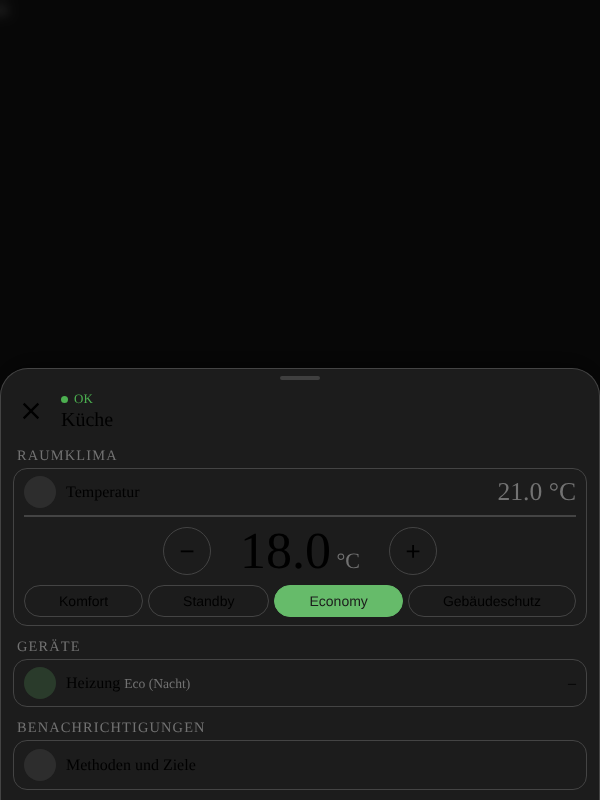
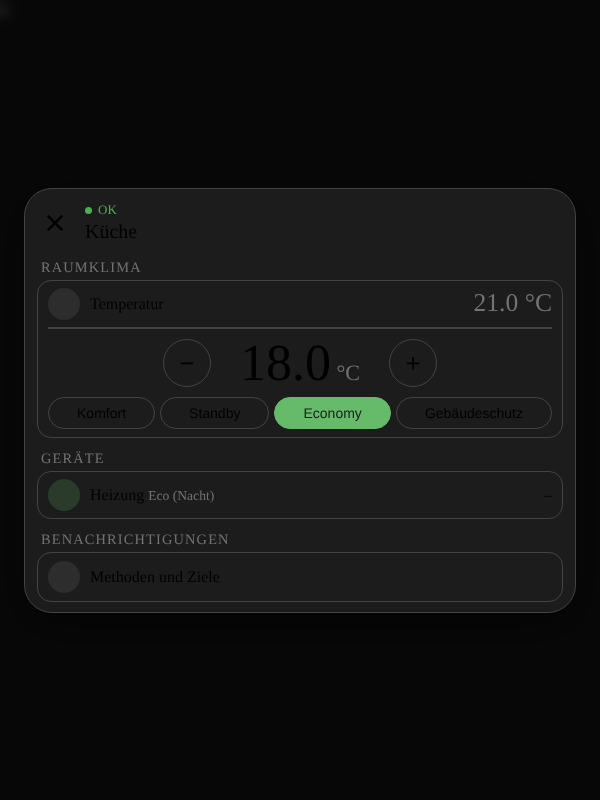
Popup: Sheet nur auf kleinen Bildschirmen, auf großen zentriert (1.32.1) (#254)
Claude-Session: https://claude.ai/code/session_016N3izbgCGyVMuvVCQ46Wp9

diff --git a/custom_components/ha_smart_ventilation/www/smart-climate-card.js b/custom_components/ha_smart_ventilation/www/smart-climate-card.js
@@ -1920,6 +1920,7 @@ function openRoomDialog(key) {
     ".ov-r{flex:none;display:flex;flex-direction:column;align-items:flex-end;gap:2px;max-width:55%}.ov-vals{font-size:13px;white-space:nowrap}" +
     ".ov-devs{display:flex;gap:4px;--mdc-icon-size:18px}.ov-dev{display:inline-flex}" +
     ".ov-foot{margin:12px 4px 0;font-size:12px;color:var(--secondary-text-color,#727272);text-align:center}" +
+    "@media (min-width:451px) and (min-height:501px){.sc-room-dialog{align-items:center;padding:24px}.sc-room-panel{max-width:560px;max-height:calc(100% - 48px);border-radius:28px;border-bottom:1px solid var(--divider-color,rgba(127,127,127,.45));box-shadow:0 12px 48px rgba(0,0,0,.5);animation:sc-fade .18s ease-out}.sc-room-grip{display:none}.sc-room-bar{padding-top:10px}.sc-room-scroll{padding-bottom:0}}" +
     "</style>";
   const panel = document.createElement("div");
   panel.className = "sc-room-panel";
@@ -2143,8 +2144,9 @@ function openRoomDialog(key) {
   // immer, im Inhalt nur, wenn er ganz oben steht. Über 110 px oder schnell
   // schließt es, sonst federt es zurück.
   let sw = null;
+  const isSheet = () => !(window.matchMedia && window.matchMedia("(min-width:451px) and (min-height:501px)").matches);
   panel.addEventListener("touchstart", (ev) => {
-    if (ev.touches.length !== 1) { sw = null; return; }
+    if (ev.touches.length !== 1 || !isSheet()) { sw = null; return; }
     const inBar = ev.composedPath().includes(bar) || ev.composedPath().includes(grip);
     sw = { y: ev.touches[0].clientY, t: Date.now(), ok: inBar || scroll.scrollTop <= 0, drag: false, dy: 0 };
   }, { passive: true });

diff --git a/CLAUDE.md b/CLAUDE.md
@@ -3776,6 +3776,8 @@ Nutzer (Screenshot): Bei jedem HA-Neustart kommt beim Runterfahren eine Push (Wo
 
 **176. Heizplan zeigt den echten Verlauf, Popup als Bottom-Sheet nach Home-Assistant-Vorbild (1.32.0).** Nutzer (Screenshots, Büro im Homeoffice): Der Plan zeigte für Vergangenes nur Standby/Eco, obwohl real meist Comfort lief; zusätzlich passte das Popup nicht zu den Home-Assistant-Fenstern (dort volle Breite, unten bündig). Backend: `_log_heating_actual()` protokolliert den live vom Gerät gemeldeten Modus (`heizung_modus`, also inklusive Handeingriff/Auslöser/Fensterpause) als `[Startminute, Modus]` für den heutigen Tag (Attribut `heizung_tagesverlauf` + `_tag` für die Wiederherstellung per RestoreEntity, Reset um Mitternacht mit Übernahme des letzten Modus); aufgerufen im selben Live-Read wie das Anzeige-Attribut (Lektion 31/96), idempotent, "" = unbekannt (wird nicht als Start geloggt). Karte: `planHtml(plan, now, compact, history)` bildet aus Plan- und Verlauf-Einschnitten Abschnitte; bis zur Jetzt-Marke gilt der Verlauf (volle Farbe), wo keiner bekannt ist der Plan, ab jetzt der Plan mit `.plan-fut` (60 % Deckkraft); ohne Verlauf unverändert. Auch Gebäudeschutz hat jetzt Farbe/Label. Nur der live gemeldete Modus, keine Rückrechnung aus dem Recorder (nur ab dem ersten Start nach dem Update). Popup: Overlay `align-items:flex-end`, Panel volle Breite (max. 600 px), unten bündig, nur oben rund, Abstand oben `max(safe-area, 8 px)`, Griff, X als SVG (28 px), Wegwischen nach unten wieder da (am Kopf immer, im Inhalt nur bei `scrollTop <= 0`; > 110 px oder schnell schließt, sonst Rückfederung); Bereiche (`.cr-sec`, Übersichts-Kacheln) mit transparentem Hintergrund und Rahmen statt grauer Fläche. Meine Lektion-173-Annahme (oben angeheftet, Luft ringsum) war damit falsch gelesen - der Nutzer meinte die Höhe oben, nicht den Rand unten/seitlich. Tests (Scratchpad): `test-sheet.js` (Chromium 280-900 px: bündig, Ecken, Griff, X, Überlauf), `test-swipe2.js` (CDP-Touch: weit/kurz/gescrollt), `test-history.js`, `test_hlog.py` (ast-Harness des Protokolls); `test-plan.js` hat einen veralteten Titelcheck ("Heizplan heute", seit 1.23.3 "Heizplan"). Nicht in der iOS-App geprüft. Lektion: Ein "wie bei Home Assistant" muss gegen das Original an allen Rändern verglichen werden (oben, seitlich, unten, Ecken), nicht nur an dem Rand, über den gerade gesprochen wurde; und eine Anzeige "Plan vs. Ist" braucht beides getrennt gespeichert, sonst überschreibt die Gegenwart die Erinnerung.
 
+**177. Popup: Sheet nur auf kleinen Bildschirmen, auf großen zentriert (1.32.1).** Nutzer (Screenshots Desktop): Home Assistants Fenster sind auf großen Schirmen zentriert, unser Popup war überall ein unten bündiges Sheet (Lektion 176). Rückfrage: ob sich HAs Einstellung auslesen lässt - zur Laufzeit nein, der Umschaltpunkt steckt als feste CSS-Regel im Frontend (`ha-dialog`: höchstens 450 px Breite oder 500 px Höhe = Vollbild/Sheet; aus dem Gedächtnis, nicht an der Instanz geprüft), daher dieselben Werte per Media Query (`min-width:451px and min-height:501px` = zentriert, 560 px breit, alle Ecken rund, ohne Griff, Einblenden statt Hochschieben). Das Wegwischen prüft `matchMedia` beim Berühren, die Umschaltung wirkt live. Stolperstein: Die Overrides der großen Ansicht müssen im CSS NACH den Basisregeln von Leiste und Scrollbereich stehen (gleiche Spezifität), sonst gewinnen die Basiswerte. Im Touch-Test (`isMobile`) braucht die Seite ein `meta viewport`, sonst gilt eine Layout-Breite von 980 px und die Media Query greift nicht. Test `test-sheet.js` jetzt über 13 Viewports (u. a. 450/451 px, 800x500/501, 844x390, 1280x900). Nicht in der iOS-App geprüft. Lektion: Ein "wie bei Home Assistant" gilt je Bildschirmklasse - das Original bei mehreren Größen ansehen, nicht nur am Handy.
+
 ## Versionierung & Release
 
 - Semantic Versioning in `manifest.json` (`version`): Patch für

diff --git a/docs/dashboard.md b/docs/dashboard.md
@@ -415,10 +415,12 @@ tap_action:
   smart_climate_room: badezimmer   # Raumname, Slug oder Entity-ID des Binärsensors
 ```
 
-Der Dialog sitzt wie die Fenster von Home Assistant am oberen Rand mit Luft darüber (ab 1.31.0; bis 600 px breit und
-horizontal zentriert, alle Ecken gerundet), mit der Dashboard-Hintergrundfarbe und unscharf abgedunkeltem Hintergrund.
-So springt die Ansicht nicht, wenn man über eine Bezeichnung in das Home-Assistant-Fenster wechselt. Die Seite dahinter
-scrollt nicht mit. Schließen: Kreuz, Tippen neben den Dialog oder Esc (das Wegwischen nach unten entfällt).
+Der Dialog folgt der Umschaltung der Home-Assistant-Fenster (ab 1.32.1): Auf kleinen Bildschirmen (bis 450 px Breite
+oder bis 500 px Höhe, also Handy hochkant und quer) ist er ein Sheet in voller Breite am unteren Rand, mit Griff und
+Wegwischen nach unten. Auf größeren Bildschirmen (Tablet, Desktop) erscheint er zentriert mit allen Ecken gerundet,
+höchstens 560 px breit, ohne Griff und Wegwischen. Die Umschaltung wirkt live (Drehen, Fenstergröße). Dashboard-
+Hintergrundfarbe, unscharf abgedunkelter Hintergrund; die Seite dahinter scrollt nicht mit. Schließen: Kreuz, Tippen
+neben den Dialog oder Esc.
 
 Der Dialog zeigt den Raum in einer kompakten Ansicht im Home-Assistant-Stil (ohne Übersicht
 und Außen-Messwerte): Titel mit Status-Symbol (Haken/Ausrufezeichen/Warndreieck in Grün/Orange/Rot), dann die Abschnitte
@@ -649,7 +651,8 @@ dem ersten Start nach dem Update, Gerät nicht verfügbar), bleibt der Plan
 stehen. Der Verlauf gilt nur für den heutigen Tag (Attribut
 `heizung_tagesverlauf`, wird um Mitternacht zurückgesetzt).
 
-**Popup wie bei Home Assistant (ab 1.32.0):** Das Raum-Popup liegt in voller
-Breite bündig am unteren Rand, oben abgerundet, mit Griff und großem
-Schließen-Kreuz; Wegwischen nach unten (am Kopf oder im ganz oben stehenden
-Inhalt) schließt es. Die Bereiche sind nur noch mit Konturen umrandet.
+**Popup wie bei Home Assistant (ab 1.32.0):** Auf kleinen Bildschirmen (bis 450 px
+Breite oder 500 px Höhe) liegt das Raum-Popup in voller Breite bündig am unteren Rand,
+oben abgerundet, mit Griff und großem Schließen-Kreuz; Wegwischen nach unten (am Kopf
+oder im ganz oben stehenden Inhalt) schließt es. Auf größeren Bildschirmen (ab 1.32.1)
+steht es zentriert mit allen Ecken gerundet, ohne Griff und Wegwischen. Die Bereiche sind nur noch mit Konturen umrandet.
